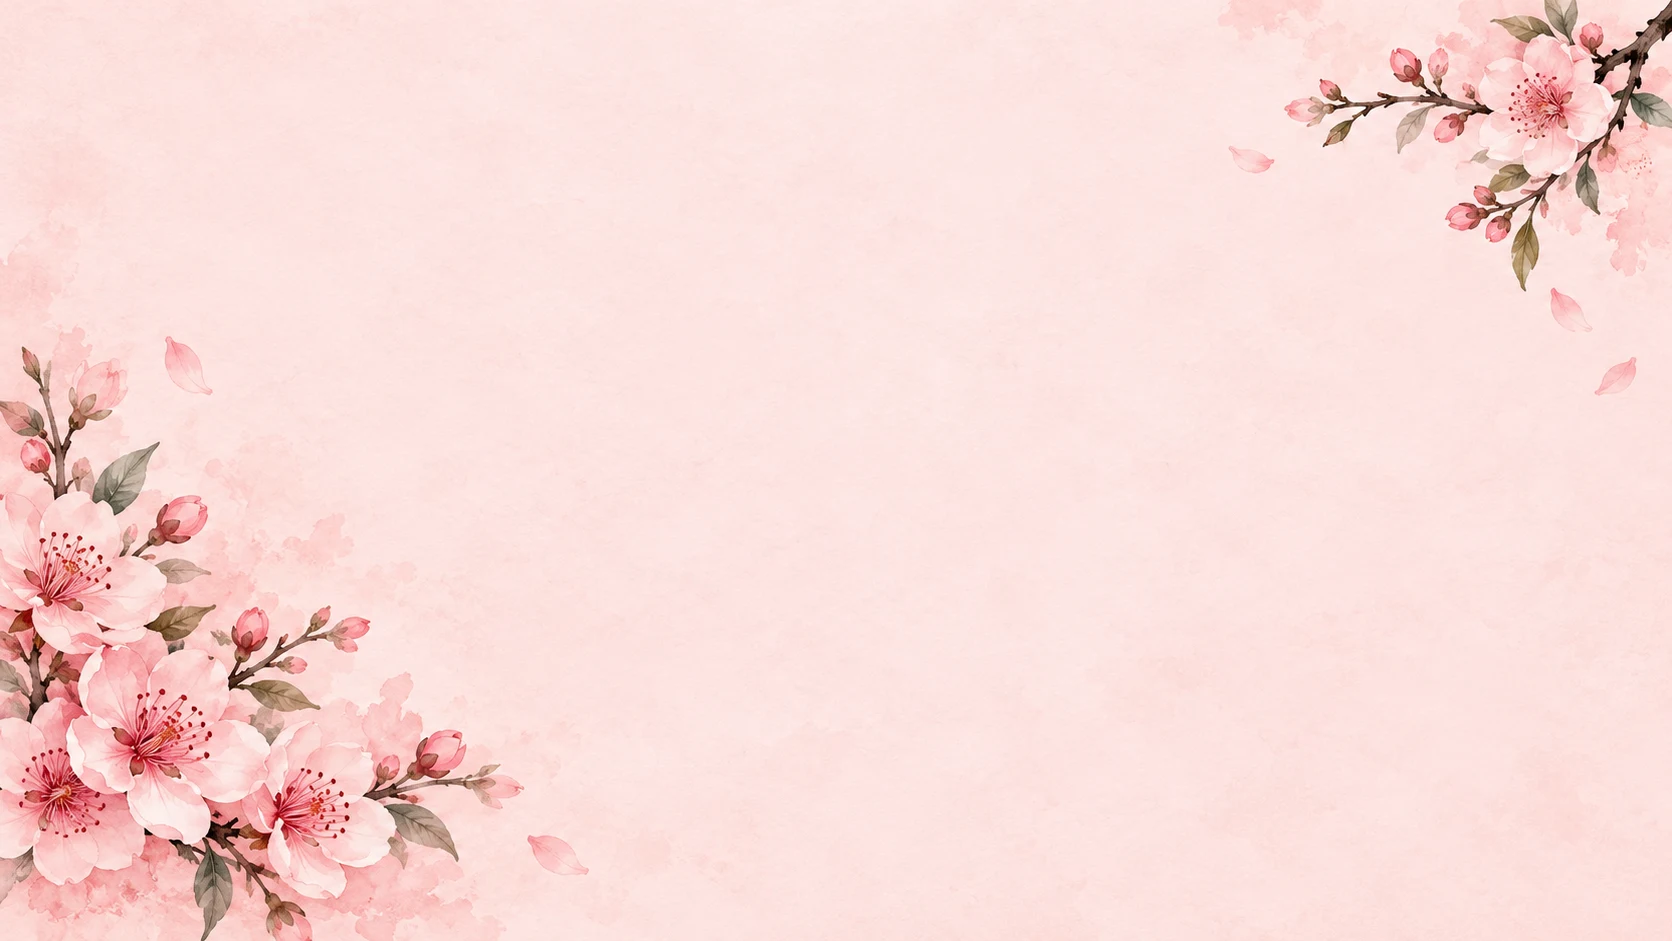
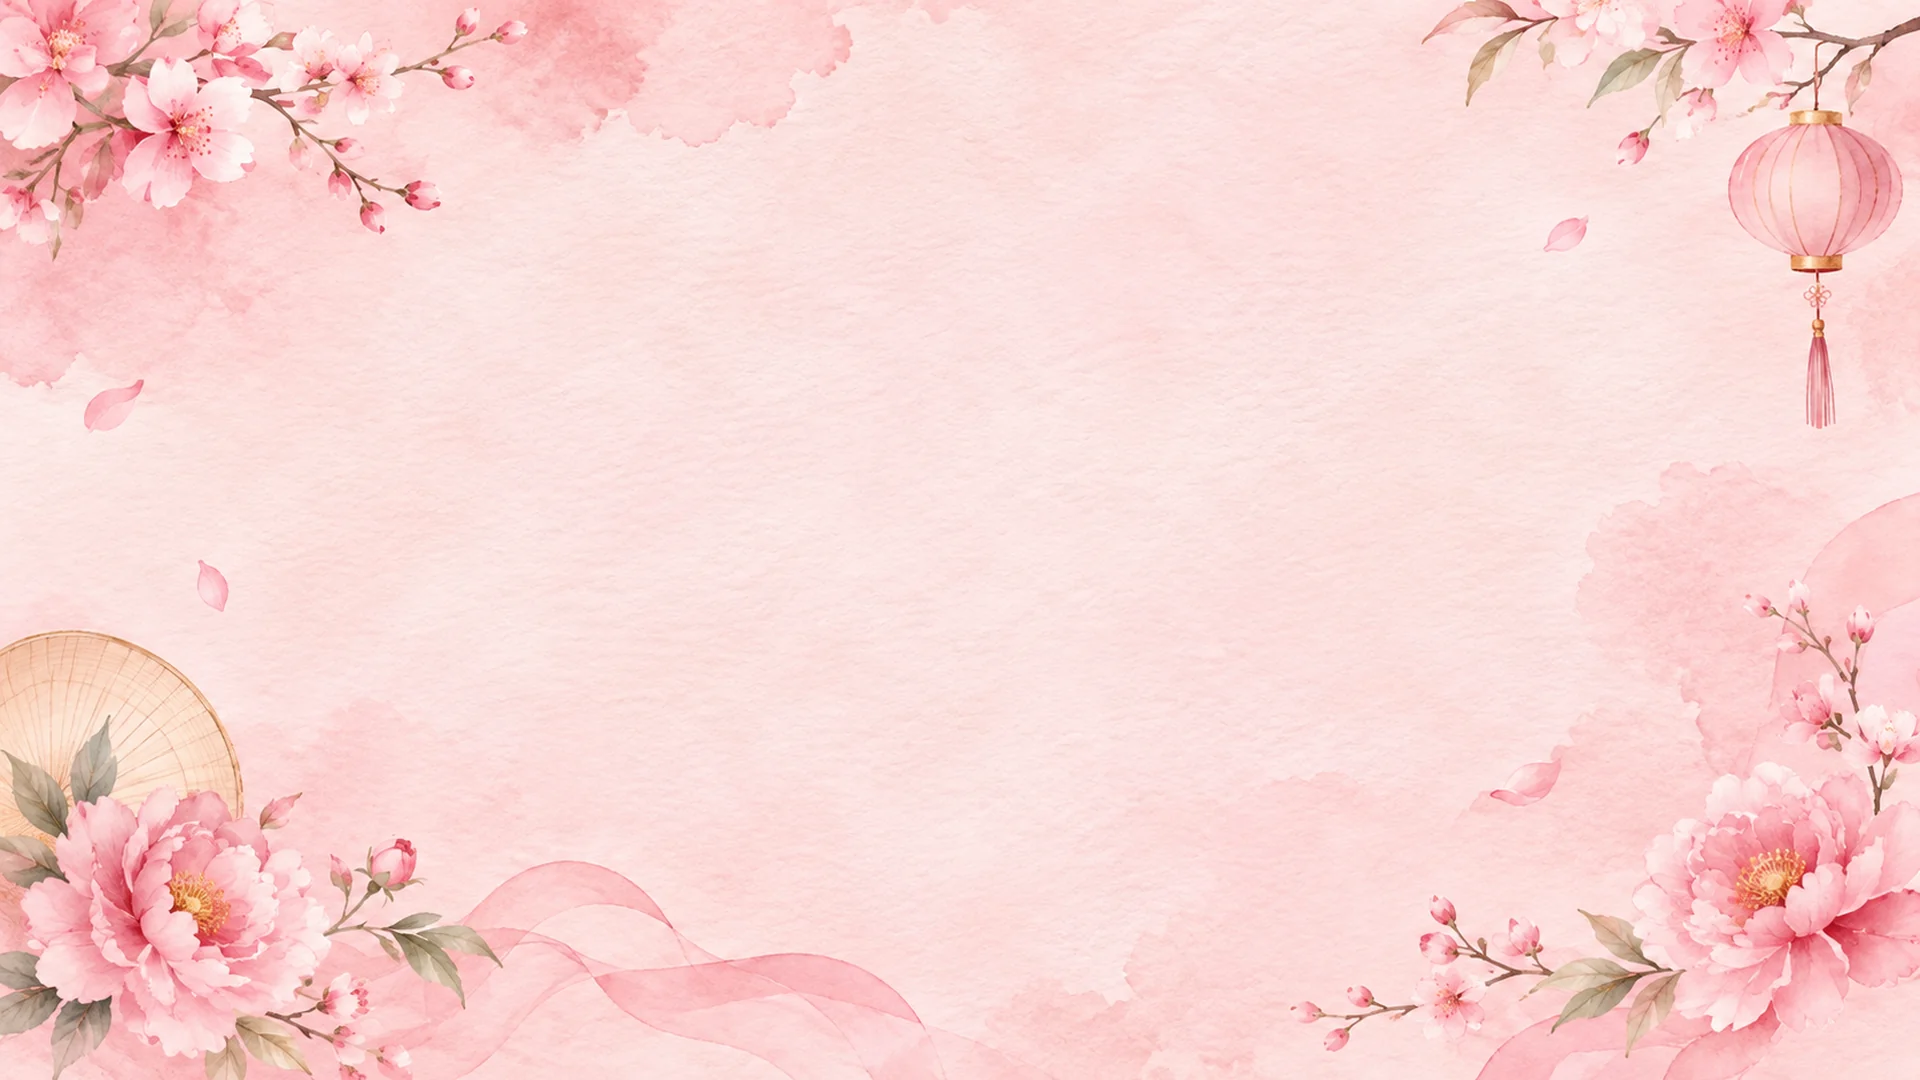
design(hong-phuong): add watercolor 16:9/9:16 backgrounds and layered AI WebP artwork

diff --git a/src/config/template-assets.ts b/src/config/template-assets.ts
@@ -112,39 +112,25 @@ export const TEMPLATE_ASSETS: Record<string, TemplateAssets> = {
     ],
   },
 
-  /**
-   * Hồng Phượng Ăn Hỏi: nền hồng đào + lồng đèn góc trên trái + sen góc dưới phải (+ chữ hỷ ở giữa đáy, vẽ trong hong-phuong.ts).
-   * Nền: chỉ có bản ngang; khung dọc dùng chính ảnh đó cắt giữa (giấy hồng màu nước) — nên tạo thêm nền dọc riêng.
-   */
+  /** Hồng Phượng 2026: nền riêng ngang/dọc và artwork màu nước. */
   "hong-phuong": {
-    // dải lụa dùng làm hoạ tiết phía trên "Lời cảm ơn" (vẽ trong hong-phuong.ts → ornament)
-    preload: ["/assets/hong-phuong/decorations/dai-lua-hong.webp"],
+    preload: ["/assets/hong-phuong/decorations/silk-ribbon.webp"],
     background: {
       landscape: "/assets/hong-phuong/backgrounds/landscape.webp",
-      portrait: "/assets/hong-phuong/backgrounds/landscape.webp",
-      zoom: 0.02,
+      portrait: "/assets/hong-phuong/backgrounds/portrait.webp",
+      zoom: 0.012,
     },
     back: [
-      // Lồng đèn treo góc trên trái, đung đưa quanh điểm treo (giữa mép trên ảnh)
+      // Phượng hoàng mờ ở rìa phải, không đè lên chữ; ẩn trên khung dọc.
       {
-        src: "/assets/hong-phuong/decorations/long-den.webp",
-        anchor: "tc",
-        x: 0.115,
-        y: 0,
-        height: 0.46,
-        motion: { sway: 0.035, cycles: 2 },
-        portrait: { x: 0.2, height: 0.3 },
+        src: "/assets/hong-phuong/decorations/phoenix-pink.webp",
+        anchor: "tr", x: 0.98, y: 0.10, height: 0.3, alpha: 0.20,
+        motion: { sway: 0.008, breathe: 0.005, cycles: 2 },
+        portrait: { hide: true },
       },
-      // Sen đôi góc dưới phải
-      {
-        src: "/assets/hong-phuong/decorations/sen-doi.webp",
-        anchor: "br",
-        x: 0.985,
-        y: 1,
-        height: 0.38,
-        motion: { sway: 0.012, breathe: 0.01, cycles: 2, phase: 1.2 },
-        portrait: { x: 0.97, height: 0.24 },
-      },
+    ],
+    falling: [
+      { src: "/assets/hong-phuong/particles/petal-pink-01.webp", count: 8, size: [0.014, 0.027], drift: 36, loops: 1, seed: 73 },
     ],
   },
 };

diff --git a/src/lib/render/templates/hong-phuong.ts b/src/lib/render/templates/hong-phuong.ts
@@ -71,7 +71,7 @@ export const hongPhuong: VideoTemplate = {
     rr(12, 10);
     g.stroke();
     if (!rc.portrait && getAsset("/assets/hong-phuong/backgrounds/landscape.webp")) {
-      // vị trí hai cụm hoa đào trong ảnh nền ngang (toạ độ theo tỉ lệ khung): dưới trái và trên phải
+      // che nét viền ở bốn góc nhiều hoa của nền mới (tọa độ tỉ lệ khung)
       const hide = (cx: number, cy: number, rx: number, ry: number) => {
         g.save();
         g.globalCompositeOperation = "destination-out";
@@ -87,10 +87,10 @@ export const hongPhuong: VideoTemplate = {
         g.fill();
         g.restore();
       };
-      hide(0.05, 0.62, 0.09, 0.27);
-      hide(0.13, 0.93, 0.22, 0.11);
-      hide(0.88, 0.04, 0.17, 0.09);
-      hide(0.975, 0.15, 0.06, 0.2);
+      hide(0.08, 0.07, 0.13, 0.10);
+      hide(0.12, 0.93, 0.18, 0.13);
+      hide(0.89, 0.06, 0.18, 0.10);
+      hide(0.95, 0.90, 0.13, 0.14);
     }
     ctx.drawImage(scratchCanvas("hp-frame", W, H), 0, 0, W, H);
 
@@ -121,7 +121,7 @@ export const hongPhuong: VideoTemplate = {
 
   // Phân cách phía trên "Lời cảm ơn": dải lụa hồng (ảnh)
   ornament(rc, cx, cy) {
-    const img = getAsset("/assets/hong-phuong/decorations/dai-lua-hong.webp");
+    const img = getAsset("/assets/hong-phuong/decorations/silk-ribbon.webp");
     const { ctx } = rc;
     if (img) {
       const w = 300;

diff --git a/docs/HONG_PHUONG_DESIGN_ASSETS.md b/docs/HONG_PHUONG_DESIGN_ASSETS.md
@@ -1,0 +1,17 @@
+# Hồng Phượng — Bộ asset 2026 (bản thiết kế)
+
+- Tạo bằng ChatGPT Image: 2 background độc lập, 5 trang trí (sen chính, sen phụ, đèn lồng, lụa, phượng), 1 cánh hoa.
+- Kích thước xuất: `backgrounds/landscape.webp` 1920×1080; `backgrounds/portrait.webp` 1080×1920. Nguồn AI nhỏ hơn mục tiêu và đã upscale bằng Lanczos, **không phải native Full HD**.
+- Các sprite trang trí WebP có alpha thật; kiểm tra lại viền trên nền tối và nền sáng.
+- Tránh nhân đôi chủ thể: background đã có đèn lồng, sen và lụa, vì vậy layout mặc định **không** lặp đèn lồng/sen tách lớp. Phượng mờ chỉ trên màn ngang, cánh hoa rơi tiết chế, ribbon dùng ở lời cảm ơn.
+- Tài nguyên thiết kế bổ sung được đánh dấu `visual-qa-pending` trong `manifest.json` và có thể dùng cho cảnh mới trong tương lai.
+- Hình cũ chưa thay trong `decorations/` được giữ để phục hồi nhanh, nhưng có giấy phép `unverified`.
+
+## QA cần duyệt trước khi merge
+
+1. `npm run check:assets`, `npm run test:assets`, `npm run typecheck`, `npm run build`.
+2. Mở `/dev/frames?t=hong-phuong&aspect=16:9`, `&aspect=9:16`: intro có/không ảnh; tên dài; lời cảm ơn ngắn/dài; cảnh album.
+3. Kiểm tra không chồng ảnh/đèn lồng/sen, vùng chữ đủ độ tương phản, hoa/góc không bị zoom crop, ảnh trong suốt không có quầng.
+4. Thử phát video trên màn hình thực, xác nhận chuyển động và vòng lặp.
+
+**Chưa tuyên bố kiểm tra runtime hoặc khả năng thương mại của asset legacy.**
